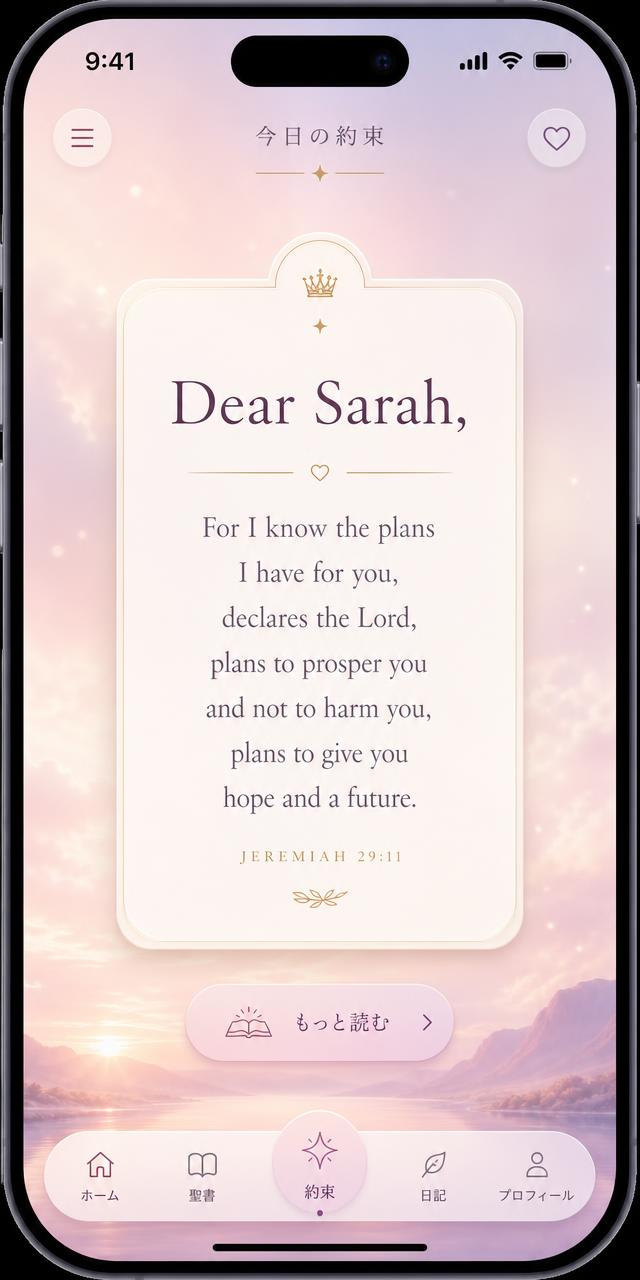
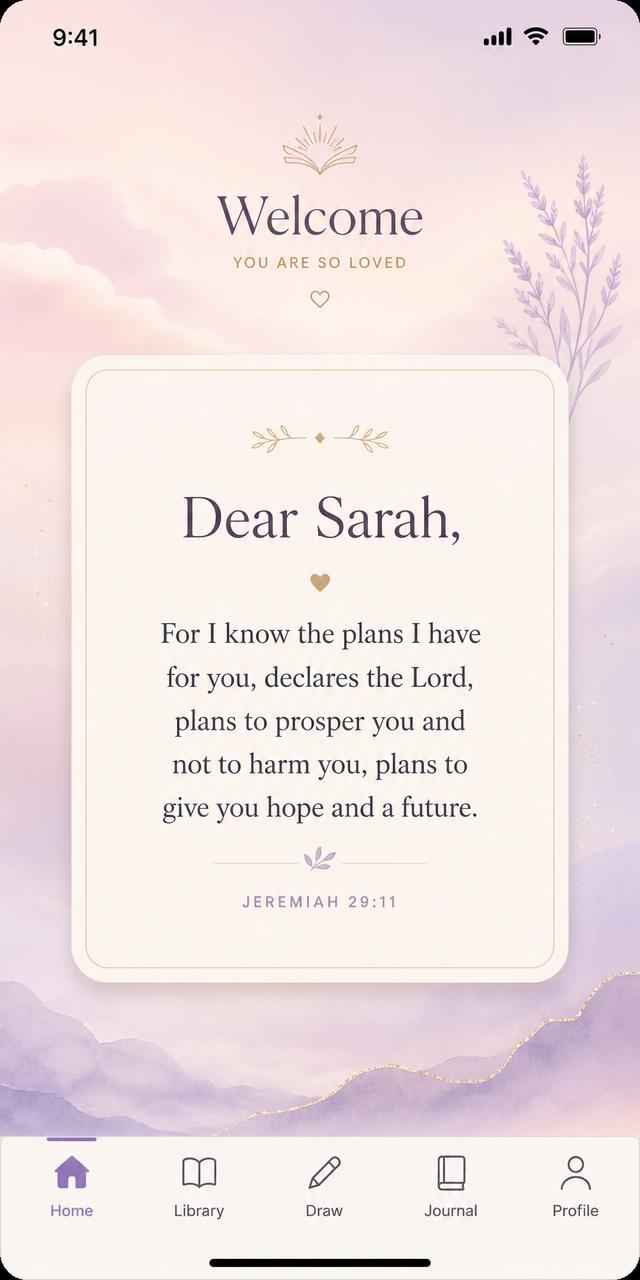
Changes

diff --git a/src/pages/AppStore.tsx b/src/pages/AppStore.tsx
@@ -1,0 +1,137 @@
+import { Link } from "react-router-dom";
+import { motion } from "framer-motion";
+import { Apple, ArrowLeft, Heart, Smartphone, Star } from "lucide-react";
+import { Button } from "@/components/ui/button";
+import cardScreen from "@/assets/app-screen-card.jpg";
+import libraryScreen from "@/assets/app-screen-library.jpg";
+import parableScreen from "@/assets/app-screen-parable.jpg";
+
+const screens = [
+  { src: cardScreen, alt: "Words of Life daily card, personalised with your name" },
+  { src: libraryScreen, alt: "Browsing the library of 365 Bible promises by theme" },
+  { src: parableScreen, alt: "A personalised parable with you as the faithful one" },
+];
+
+const AppStorePage = () => {
+  return (
+    <main className="relative min-h-screen overflow-hidden">
+      <div aria-hidden className="absolute -top-32 -left-24 h-80 w-80 rounded-full bg-primary/20 blur-3xl" />
+      <div aria-hidden className="absolute top-1/2 -right-24 h-80 w-80 rounded-full bg-accent/25 blur-3xl" />
+
+      <div className="relative z-10 max-w-5xl mx-auto px-6 sm:px-12 py-16 sm:py-24">
+        <Link
+          to="/"
+          className="inline-flex items-center gap-2 text-sm text-muted-foreground hover:text-foreground transition-colors"
+        >
+          <ArrowLeft className="h-4 w-4" /> Back to Words of Life
+        </Link>
+
+        <motion.header
+          initial={{ opacity: 0, y: 18 }}
+          animate={{ opacity: 1, y: 0 }}
+          transition={{ duration: 0.8, ease: [0.16, 1, 0.3, 1] }}
+          className="mt-10 flex flex-col sm:flex-row sm:items-center gap-8"
+        >
+          <div className="mx-auto sm:mx-0 h-24 w-24 shrink-0 rounded-[1.6rem] border border-border/60 bg-card/80 backdrop-blur shadow-soft flex items-center justify-center">
+            <span className="font-display text-3xl gradient-text italic">W</span>
+          </div>
+          <div className="text-center sm:text-left space-y-3">
+            <p className="text-xs uppercase tracking-[0.4em] text-muted-foreground">Now on mobile</p>
+            <h1 className="font-display text-4xl sm:text-5xl leading-tight text-balance">
+              Words of <span className="italic gradient-text">Life</span>
+            </h1>
+            <p className="text-muted-foreground">
+              Daily Bible promises, personally addressed to you.
+            </p>
+            <div className="flex flex-wrap items-center justify-center sm:justify-start gap-x-6 gap-y-2 text-sm text-muted-foreground">
+              <span className="inline-flex items-center gap-1.5">
+                <Star className="h-4 w-4" strokeWidth={1.8} /> Free to download
+              </span>
+              <span>365 promises</span>
+              <span>38 parables</span>
+              <span>iOS &amp; Android</span>
+            </div>
+          </div>
+        </motion.header>
+
+        <section className="mt-12 flex flex-col sm:flex-row items-center gap-4">
+          <a
+            href="#"
+            className="flex items-center gap-3 rounded-full border border-border/60 bg-background/60 backdrop-blur px-6 h-14 min-w-[200px] shadow-soft transition-all duration-300 hover:border-primary/40 hover:shadow-[var(--shadow-glow)]"
+          >
+            <Apple className="h-6 w-6" strokeWidth={1.6} />
+            <div className="text-left leading-tight">
+              <div className="text-[10px] uppercase tracking-wider text-muted-foreground">Download on the</div>
+              <div className="text-sm font-medium">App Store</div>
+            </div>
+          </a>
+          <a
+            href="#"
+            className="flex items-center gap-3 rounded-full border border-border/60 bg-background/60 backdrop-blur px-6 h-14 min-w-[200px] shadow-soft transition-all duration-300 hover:border-primary/40 hover:shadow-[var(--shadow-glow)]"
+          >
+            <Smartphone className="h-6 w-6" strokeWidth={1.6} />
+            <div className="text-left leading-tight">
+              <div className="text-[10px] uppercase tracking-wider text-muted-foreground">Get it on</div>
+              <div className="text-sm font-medium">Google Play</div>
+            </div>
+          </a>
+        </section>
+
+        <section className="mt-16">
+          <h2 className="font-display text-2xl sm:text-3xl mb-6">A quiet moment, every day</h2>
+          <div className="grid grid-cols-1 sm:grid-cols-3 gap-6">
+            {screens.map((screen, i) => (
+              <motion.div
+                key={screen.alt}
+                initial={{ opacity: 0, y: 24 }}
+                whileInView={{ opacity: 1, y: 0 }}
+                viewport={{ once: true, margin: "-60px" }}
+                transition={{ duration: 0.7, delay: i * 0.12, ease: [0.16, 1, 0.3, 1] }}
+                className="rounded-3xl overflow-hidden border border-border/60 bg-card/60 backdrop-blur shadow-soft"
+              >
+                <img
+                  src={screen.src}
+                  alt={screen.alt}
+                  loading="lazy"
+                  width={640}
+                  height={1280}
+                  className="w-full h-auto"
+                />
+              </motion.div>
+            ))}
+          </div>
+        </section>
+
+        <section className="mt-16 max-w-2xl space-y-4">
+          <h2 className="font-display text-2xl sm:text-3xl">About this app</h2>
+          <p className="text-muted-foreground leading-relaxed">
+            Words of Life gives you one Bible promise at a time, written as a letter to you by name.
+            Draw a card each morning, browse all 365 promises by theme — peace, strength, love,
+            guidance and provision — and read 38 parables retold with you as the faithful one.
+          </p>
+          <p className="text-muted-foreground leading-relaxed">
+            No adverts, no noise. Just a still place to begin your day.
+          </p>
+        </section>
+
+        <section className="mt-16 rounded-3xl border border-primary/20 bg-card/70 backdrop-blur p-10 text-center shadow-soft">
+          <h2 className="font-display text-3xl sm:text-4xl mb-4 text-balance">
+            Free to keep. <span className="italic gradient-text">£20</span> if it moved you.
+          </h2>
+          <p className="text-muted-foreground max-w-md mx-auto mb-8 leading-relaxed">
+            The app costs nothing. If it has met you in a quiet moment, a voluntary £20 donation goes
+            to a good cause.
+          </p>
+          <Button asChild size="lg" className="rounded-full px-8 h-12 text-base font-medium shadow-soft">
+            <Link to="/#donate">
+              <Heart className="mr-2 h-4 w-4" strokeWidth={2} />
+              Donate £20
+            </Link>
+          </Button>
+        </section>
+      </div>
+    </main>
+  );
+};
+
+export default AppStorePage;
